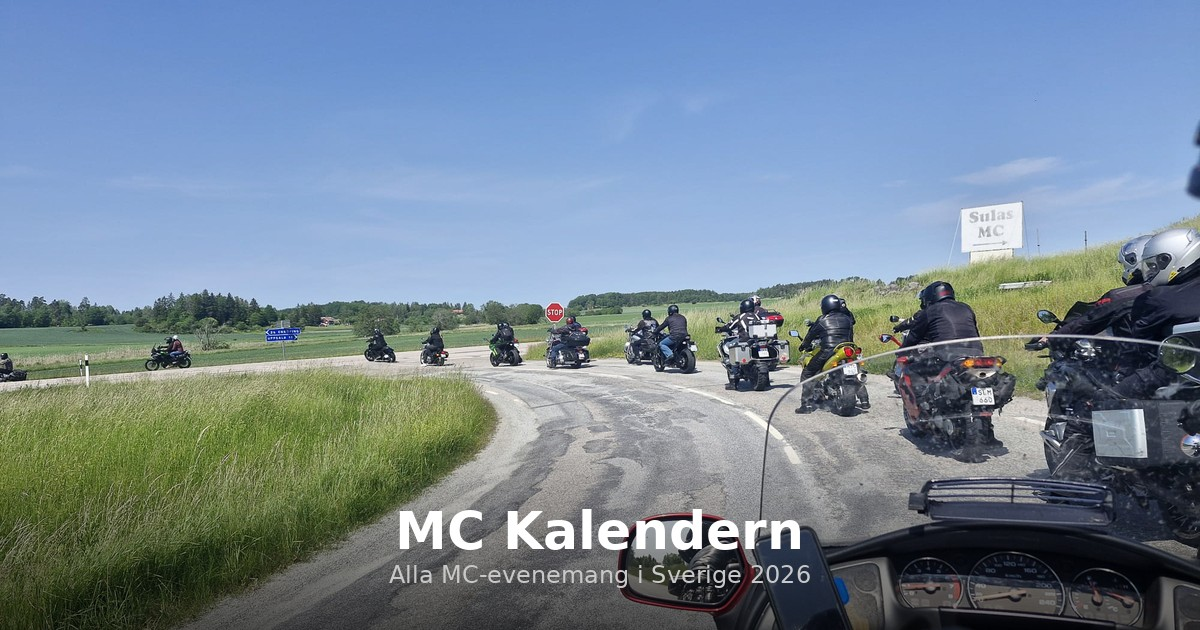
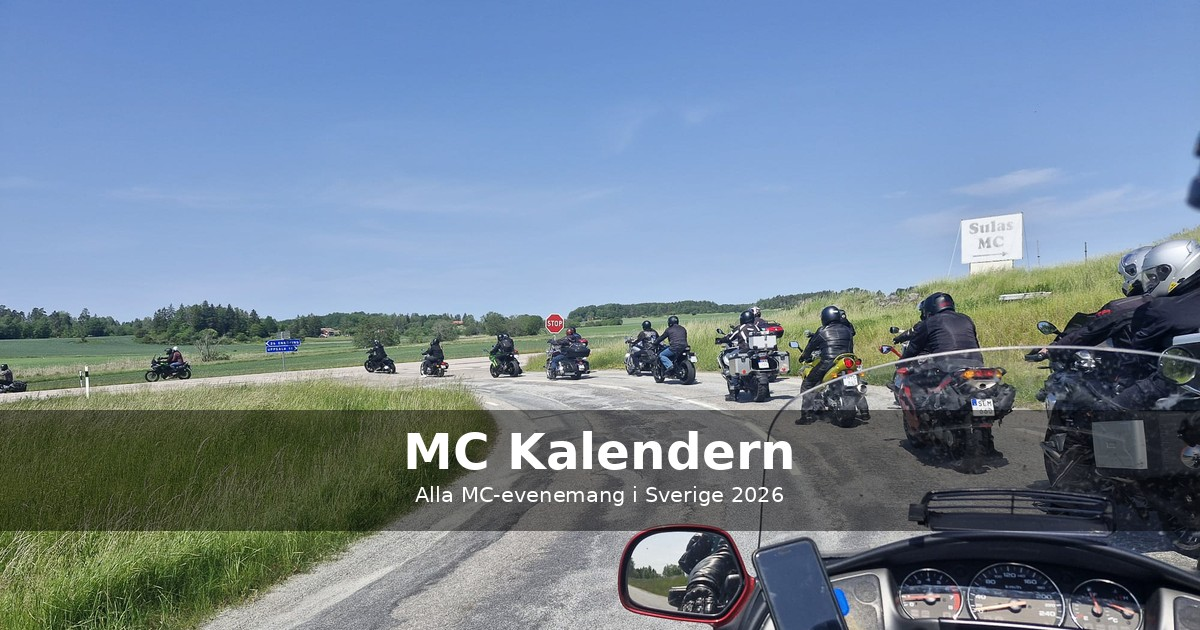
Fix share button alignment, add og:description, reposition OG image text

diff --git a/index.html b/index.html
@@ -12,7 +12,7 @@
 
 <!-- Open Graph -->
 <meta property="og:title" content="MC Kalendern - Alla MC-evenemang i Sverige 2026">
-<meta property="og:description" content="Sveriges mest kompletta MC-kalender. 600+ evenemang fran traffar och massor till racing och fester.">
+<meta property="og:description" content="Sveriges mest kompletta MC-kalender med over 600 evenemang. Hitta traffar, massor, racing, korningar och fester fran alla stora MC-klubbar i Sverige.">
 <meta property="og:type" content="website">
 <meta property="og:url" content="https://druk.se/">
 <meta property="og:locale" content="sv_SE">
@@ -25,7 +25,7 @@
 <!-- Twitter Card -->
 <meta name="twitter:card" content="summary_large_image">
 <meta name="twitter:title" content="MC Kalendern - Alla MC-evenemang i Sverige 2026">
-<meta name="twitter:description" content="Sveriges mest kompletta MC-kalender. 600+ evenemang.">
+<meta name="twitter:description" content="Sveriges mest kompletta MC-kalender med over 600 evenemang. Hitta traffar, massor, racing, korningar och fester fran alla stora MC-klubbar i Sverige.">
 <meta name="twitter:image" content="https://druk.se/og-image.jpg">
 
 <!-- Google Analytics -->
@@ -128,6 +128,9 @@
   .club-btn.active { border-color: #1a1a1a; }
   .club-btn img { width: 28px; height: 28px; object-fit: contain; }
 
+  .right-controls {
+    display: flex; flex-direction: column; align-items: flex-end; gap: 10px;
+  }
   .time-toggle { display: flex; gap: 4px; }
   .time-btn {
     padding: 5px 12px; border: 1px solid #e0e0e0; background: #fff;
@@ -136,6 +139,14 @@
   .time-btn:first-child { border-radius: 6px 0 0 6px; }
   .time-btn:last-child { border-radius: 0 6px 6px 0; }
   .time-btn.active { background: #1a1a1a; color: #fff; border-color: #1a1a1a; }
+  .share-buttons { display: flex; justify-content: space-between; width: 100%; }
+  .share-btn {
+    width: 36px; height: 36px; padding: 0; border: 2px solid transparent;
+    border-radius: 50%; background: #fff; cursor: pointer;
+    transition: all 0.15s; display: flex; align-items: center; justify-content: center;
+  }
+  .share-btn:hover { border-color: #ccc; }
+  .share-btn svg { width: 20px; height: 20px; }
 
   /* Card grid */
   .grid {
@@ -370,9 +381,22 @@
       <button class="club-btn" data-club="SMC" title="SMC"><img src="clubs/smc.png" alt="SMC"></button>
     </div>
   </div>
-  <div class="time-toggle" id="timeToggle">
-    <button class="time-btn active" data-time="upcoming">Kommande</button>
-    <button class="time-btn" data-time="all">Alla</button>
+  <div class="right-controls">
+    <div class="time-toggle" id="timeToggle">
+      <button class="time-btn active" data-time="upcoming">Kommande</button>
+      <button class="time-btn" data-time="all">Alla</button>
+    </div>
+    <div class="share-buttons">
+      <button class="share-btn" id="shareFb" title="Dela på Facebook">
+        <svg viewBox="0 0 24 24" fill="#1877F2"><path d="M24 12.073c0-6.627-5.373-12-12-12s-12 5.373-12 12c0 5.99 4.388 10.954 10.125 11.854v-8.385H7.078v-3.47h3.047V9.43c0-3.007 1.792-4.669 4.533-4.669 1.312 0 2.686.235 2.686.235v2.953H15.83c-1.491 0-1.956.925-1.956 1.874v2.25h3.328l-.532 3.47h-2.796v8.385C19.612 23.027 24 18.062 24 12.073z"/></svg>
+      </button>
+      <button class="share-btn" id="shareWa" title="Dela på WhatsApp">
+        <svg viewBox="0 0 24 24" fill="#25D366"><path d="M17.472 14.382c-.297-.149-1.758-.867-2.03-.967-.273-.099-.471-.148-.67.15-.197.297-.767.966-.94 1.164-.173.199-.347.223-.644.075-.297-.15-1.255-.463-2.39-1.475-.883-.788-1.48-1.761-1.653-2.059-.173-.297-.018-.458.13-.606.134-.133.298-.347.446-.52.149-.174.198-.298.298-.497.099-.198.05-.371-.025-.52-.075-.149-.669-1.612-.916-2.207-.242-.579-.487-.5-.669-.51-.173-.008-.371-.01-.57-.01-.198 0-.52.074-.792.372-.272.297-1.04 1.016-1.04 2.479 0 1.462 1.065 2.875 1.213 3.074.149.198 2.096 3.2 5.077 4.487.709.306 1.262.489 1.694.625.712.227 1.36.195 1.871.118.571-.085 1.758-.719 2.006-1.413.248-.694.248-1.289.173-1.413-.074-.124-.272-.198-.57-.347m-5.421 7.403h-.004a9.87 9.87 0 01-5.031-1.378l-.361-.214-3.741.982.998-3.648-.235-.374a9.86 9.86 0 01-1.51-5.26c.001-5.45 4.436-9.884 9.888-9.884 2.64 0 5.122 1.03 6.988 2.898a9.825 9.825 0 012.893 6.994c-.003 5.45-4.437 9.884-9.885 9.884m8.413-18.297A11.815 11.815 0 0012.05 0C5.495 0 .16 5.335.157 11.892c0 2.096.547 4.142 1.588 5.945L.057 24l6.305-1.654a11.882 11.882 0 005.683 1.448h.005c6.554 0 11.89-5.335 11.893-11.893a11.821 11.821 0 00-3.48-8.413z"/></svg>
+      </button>
+      <button class="share-btn" id="shareX" title="Dela på X">
+        <svg viewBox="0 0 24 24" fill="#000"><path d="M18.244 2.25h3.308l-7.227 8.26 8.502 11.24H16.17l-5.214-6.817L4.99 21.75H1.68l7.73-8.835L1.254 2.25H8.08l4.713 6.231zm-1.161 17.52h1.833L7.084 4.126H5.117z"/></svg>
+      </button>
+    </div>
   </div>
 </div>
 
@@ -608,6 +632,19 @@ document.getElementById('timeToggle').addEventListener('click', e => {
   e.target.classList.add('active');
   showPast = e.target.dataset.time === 'all';
   render();
+});
+
+// Share buttons
+const shareUrl = encodeURIComponent('https://druk.se/');
+const shareText = encodeURIComponent('MC Kalendern - Alla MC-evenemang i Sverige 2026');
+document.getElementById('shareFb').addEventListener('click', () => {
+  window.open('https://www.facebook.com/sharer/sharer.php?u=' + shareUrl, '_blank', 'width=600,height=400');
+});
+document.getElementById('shareWa').addEventListener('click', () => {
+  window.open('https://wa.me/?text=' + shareText + '%20' + shareUrl, '_blank', 'width=600,height=400');
+});
+document.getElementById('shareX').addEventListener('click', () => {
+  window.open('https://twitter.com/intent/tweet?url=' + shareUrl + '&text=' + shareText, '_blank', 'width=600,height=400');
 });
 
 // Club filter buttons
